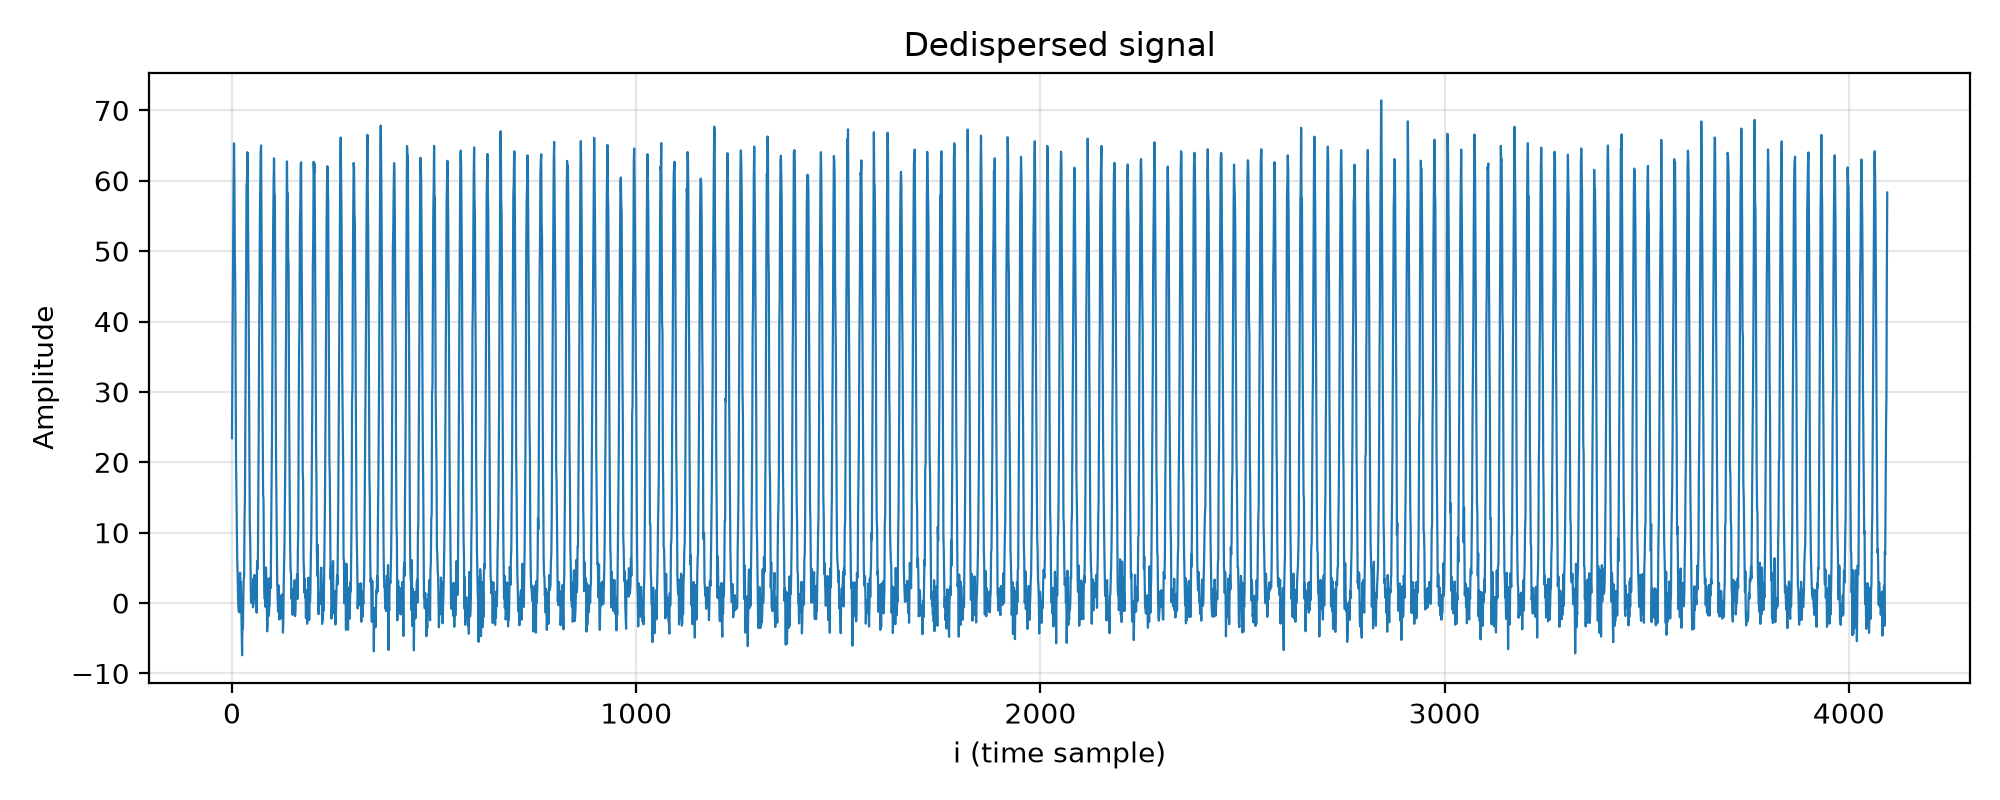
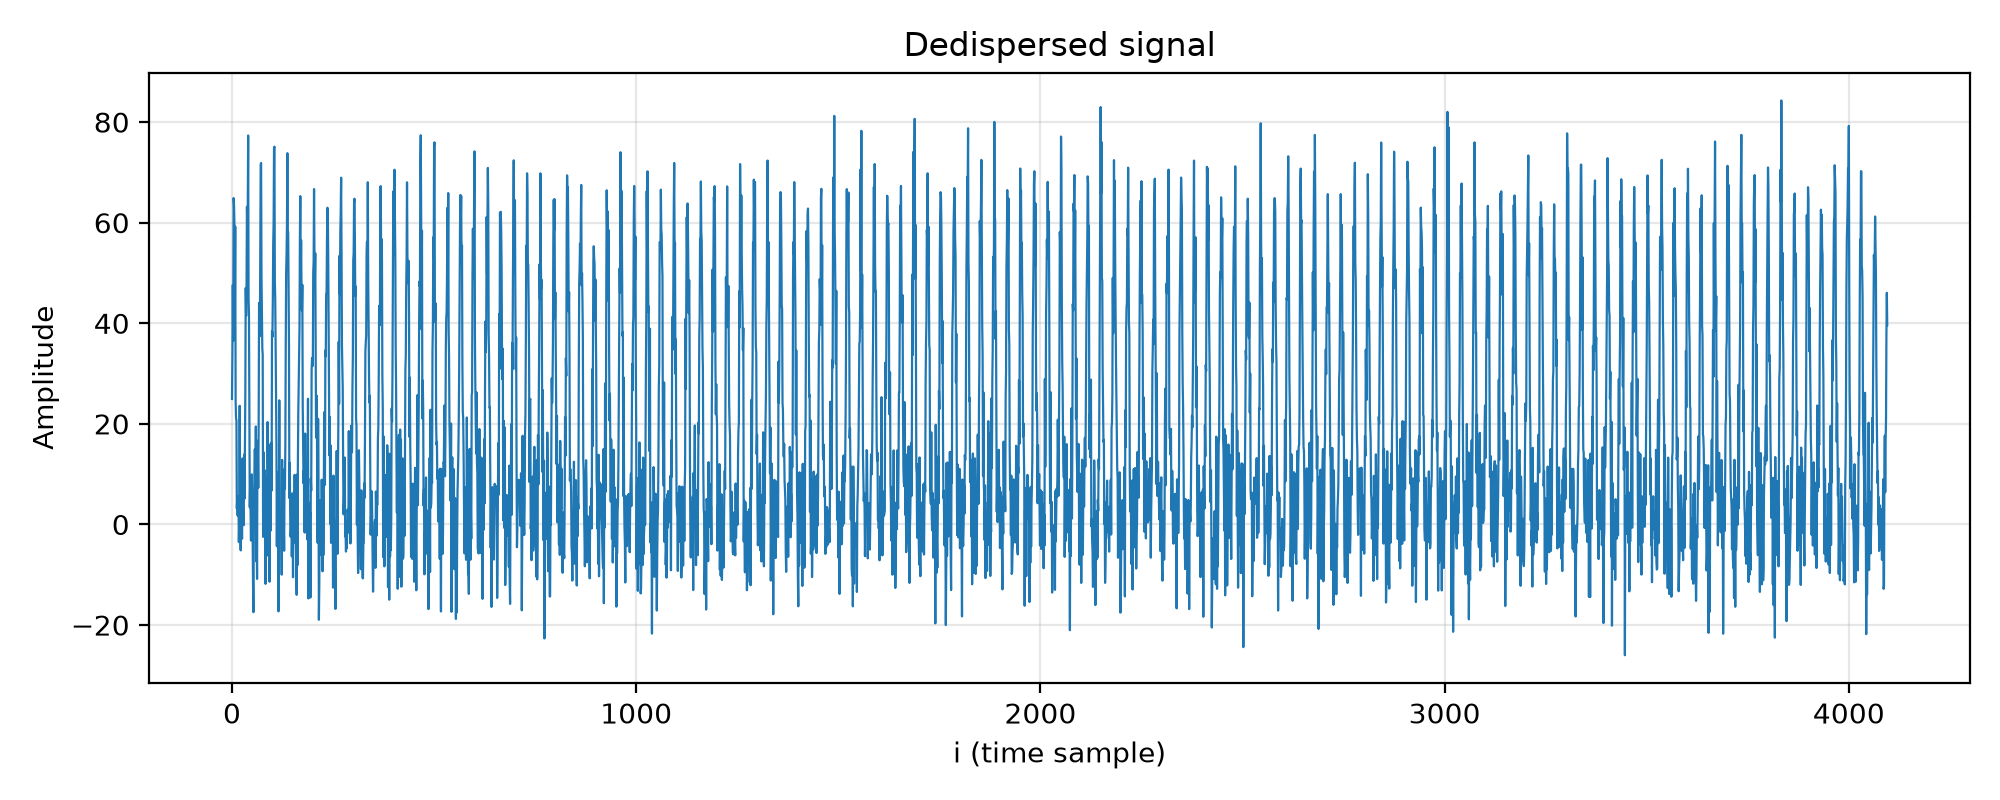
Change to a gaussian noise and create noise scan

diff --git a/plot/plot_noise_scan.py b/plot/plot_noise_scan.py
@@ -1,0 +1,39 @@
+import subprocess
+import os
+import numpy as np
+import matplotlib.pyplot as plt
+
+os.makedirs("figures", exist_ok=True)
+
+PROGRAMS = ["generate", "dedispersion", "dft"]
+
+def run_pipeline(noise):
+    """Compile avec NOISE_AMPLITUDE=noise, exécute la chaîne, renvoie magnitudes.csv."""
+    for p in PROGRAMS:
+        subprocess.run(
+            ["gcc", "-O2", f"-DNOISE_AMPLITUDE={noise}", f"{p}.c", "-o", p, "-lm"],
+            check=True)                                 # check=True : stoppe si la compilation échoue
+        subprocess.run([f"./{p}"], check=True)
+    return np.loadtxt("magnitudes.csv", delimiter=",", skiprows=1)
+
+def snr(spec):
+    """S/N provisoire : pic maximal / médiane du spectre (à raffiner plus tard)."""
+    mag = spec[1:, 1]                                   #
+    return mag.max() / np.median(mag)
+
+noises = np.logspace(-1, 3, 12)                         # 0.1 to 1000
+results = []
+for a in noises:
+    s = snr(run_pipeline(a))
+    results.append(s)
+    #print(f"sigma = {a:8.3f}   S/N = {s:8.2f}")
+
+np.savetxt("noise_scan.csv", np.column_stack([noises, results]),
+           delimiter=",", header="noise,snr", comments="")
+
+plt.loglog(noises, results, "o-")
+plt.xlabel("NOISE_AMPLITUDE (σ)")
+plt.ylabel("S/N")
+plt.grid(True, which="both", alpha=0.3)
+plt.savefig("result/noise_scan.png")
+plt.show()

diff --git a/generate.c b/generate.c
@@ -3,6 +3,8 @@
 #include <math.h>
 #include "config.h"
 
+#define PI 3.14159265358979323846
+
 int main(void)
 {
     int ret = 1;
@@ -54,10 +56,12 @@ int main(void)
             }
         }
 
-        // Add uniform noise in [-0.05, 0.05]
-        for (int c = 0; c < N; c++) {
-            signal[i][c] += NOISE_AMPLITUDE *
-                ((float)rand() / RAND_MAX - 0.5f);
+        for (int c = 0; c < N; c++){ 
+            // Add a gaussian noise
+            double u1 = (rand() + 1.0) / (RAND_MAX + 2.0);
+            double u2 = (rand() + 1.0) / (RAND_MAX + 2.0);
+            double gauss_noise = sqrt(-2.0 * log(u1)) * cos(2.0 * PI * u2);
+            signal[i][c] += NOISE_AMPLITUDE * gauss_noise;
         }
     }
 

diff --git a/config.h b/config.h
@@ -1,6 +1,3 @@
-#ifndef CONFIG_H
-#define CONFIG_H
-
 #include <math.h>
 
 // Simulation parameters
@@ -22,8 +19,9 @@
 #define PERIOD          0.033f
 #define PERIOD_INDEX    ((int)(PERIOD / DT + 0.5f))
 
-// Can work for NOISE_AMPLITUDE up to 100.0f
+#ifndef NOISE_AMPLITUDE
 #define NOISE_AMPLITUDE 1.0f
+#endif
 
 #define DELAY_SPAN_S   (K_DM * DM * (1.0f / \
             (F_MIN * F_MIN) - 1.0f / (F_MAX * F_MAX)))
@@ -44,5 +42,3 @@
 // tells which N to use, so that N_UTIL stays a power of 2.
 _Static_assert(N_UTIL > 0 && (N_UTIL & (N_UTIL - 1)) == 0,
                "N_UTIL = N - MAX_DELAY must be a power of 2: set N = 2^m + MAX_DELAY");
-
-#endif
